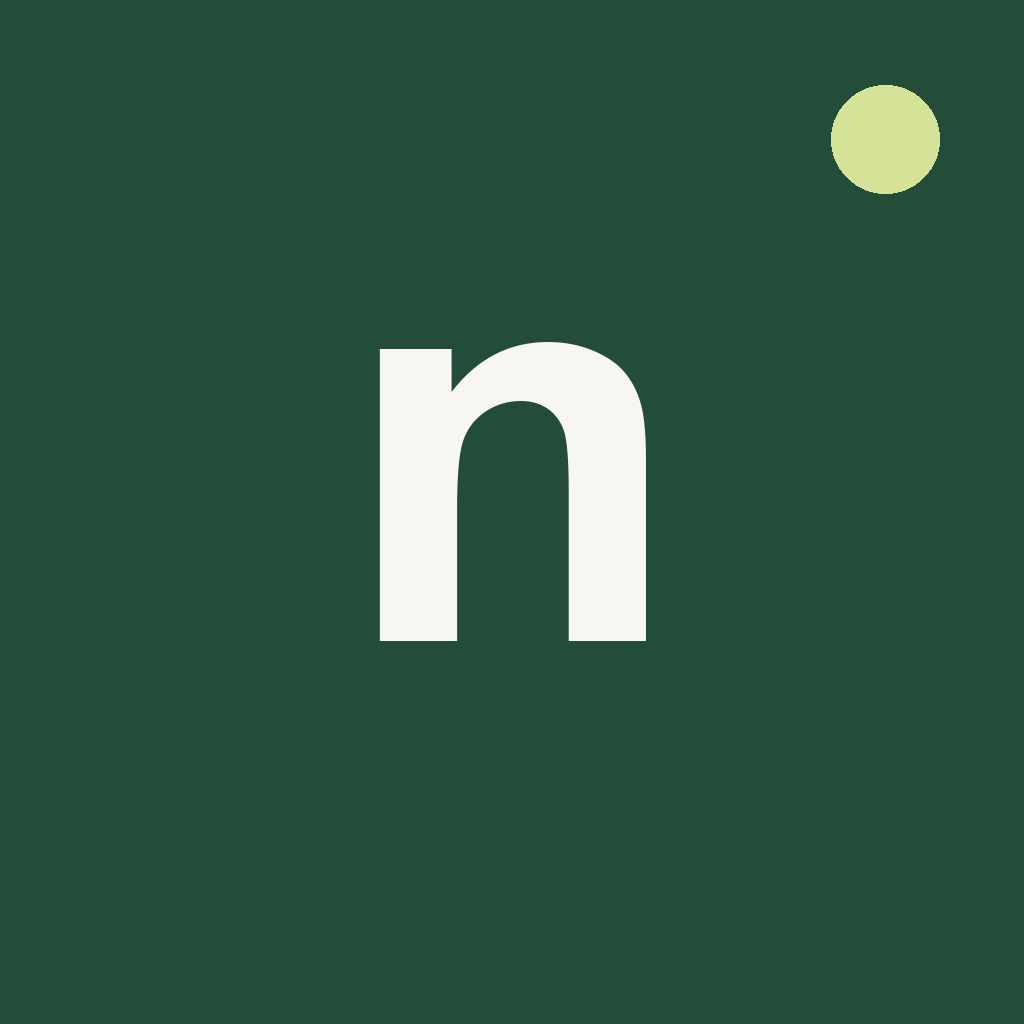
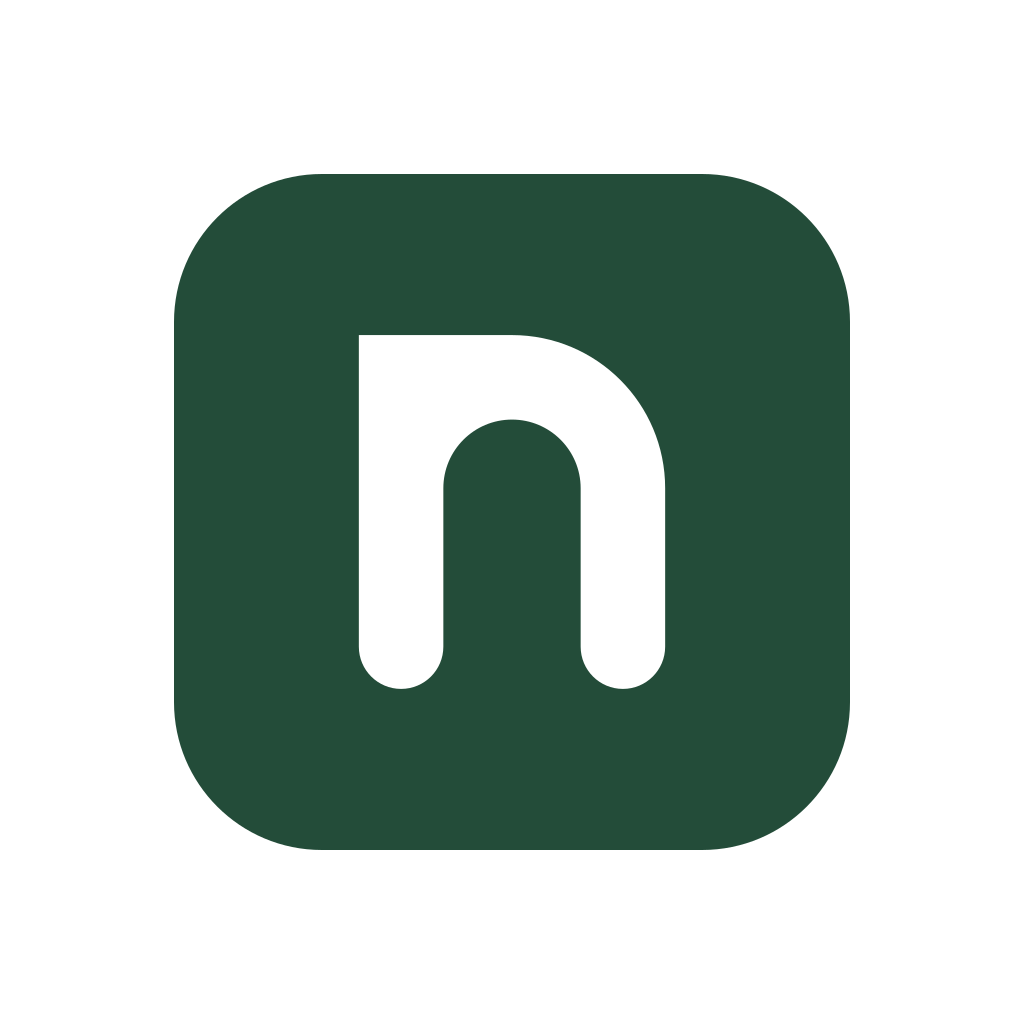
fix(brand): 統一尚未開放登入文案、換定案標誌並還原審查鎖定來源
登入頁去掉「可連線／使用學號連線」等宣稱；圖示與頁首頁尾改用定案方角 n 標誌；還原 merchantMode 審查雜湊來源以通過 Security Gates。

diff --git a/apps/mobile/src/__tests__/GuestLoginScreens.test.tsx b/apps/mobile/src/__tests__/GuestLoginScreens.test.tsx
@@ -460,6 +460,8 @@ test('a release without school SSO keeps public and platform entries, but does n
 test('the guest school-login entry always follows the selected university', () => {
   const view = render(<LoginLandingScreen />);
   expect(view.getByTestId('school-login-start')).toBeTruthy();
+  expect(view.getByText('學校帳號（尚未開放）')).toBeTruthy();
+  expect(view.getByText('學號登入（尚未開放）')).toBeTruthy();
   expect(
     view.getByText(
       '尚未開放學號直接登入；你仍可匯入自己取得的課表、成績與活動，或以 Google 帳號使用平台交流與課班服務。',
@@ -467,6 +469,9 @@ test('the guest school-login entry always follows the selected university', () =
   ).toBeTruthy();
   expect(view.queryByText(/可直接使用 e 校園帳號/)).toBeNull();
   expect(view.queryByText(/提供學號直接連線/)).toBeNull();
+  expect(view.queryByText('可連線')).toBeNull();
+  expect(view.queryByText('使用學號連線')).toBeNull();
+  expect(view.queryByText(/可以連線支援的校務系統/)).toBeNull();
   mockSchool = { id: 'nthu', name: '國立清華大學', shortName: '清大' };
   view.rerender(<LoginLandingScreen />);
   expect(view.queryByTestId('school-login-start')).toBeNull();
@@ -477,6 +482,9 @@ test('the guest school-login entry always follows the selected university', () =
   mockSchool = { id: 'pu', name: '靜宜大學', shortName: '靜宜' };
   view.rerender(<LoginLandingScreen />);
   expect(view.getByTestId('school-login-start')).toBeTruthy();
+  expect(view.queryByText('可連線')).toBeNull();
+  expect(view.queryByText('使用學號連線')).toBeNull();
+  expect(view.queryByText(/提供學號直接連線/)).toBeNull();
 });
 
 test('a direct school login route cannot show Providence credentials while browsing NTHU', () => {

diff --git a/apps/web/src/app/login/page.tsx b/apps/web/src/app/login/page.tsx
@@ -188,7 +188,7 @@ function LoginForm({
       <section className={styles.connectionIntro} aria-label="校務連線方式">
         <div>
           <p className={styles.connectionKicker}>校園資料，一次整理</p>
-          <h2>用熟悉的學校帳號，接上自己的課表</h2>
+          <h2>用匯入與 Google 帳號，整理自己的課表</h2>
           <p>尚未開放學號直接登入。你可以自行匯入課表、成績與活動；需要平台交流或課班服務時，請使用 Google 帳號登入。兩種方法分開顯示，避免把「可瀏覽校園」誤認為「已取得校務權限」。</p>
         </div>
         <div className={styles.connectionFacts}>
@@ -203,7 +203,7 @@ function LoginForm({
               <span className={styles.methodEyebrow}>學校帳號 · 本人授權</span>
               <h2>學校帳號</h2>
             </div>
-            <span className={styles.methodStatus}>{schoolAvailable ? '可連線' : '依校園提供'}</span>
+            <span className={styles.methodStatus}>{schoolAvailable ? '尚未開放' : '依校園提供'}</span>
           </div>
           {(selection?.schools?.length ?? 0) > 0 && (
             <label className={styles.schoolPicker} htmlFor="login-school">
@@ -244,7 +244,7 @@ function LoginForm({
                 </p>
               )}
               <form className={styles.loginForm} onSubmit={login} aria-busy={busy}>
-                <p className={styles.formIntro}>使用學校的既有帳號連線，不需要另外申請 nuni 學號。</p>
+                <p className={styles.formIntro}>學號直接登入尚未開放；開通前請先匯入課表與成績，或以 Google 帳號登入平台服務。</p>
                 <Input
                   id="student-id"
                   name="studentId"

diff --git a/apps/mobile/src/screens/LoginLandingScreen.tsx b/apps/mobile/src/screens/LoginLandingScreen.tsx
@@ -59,13 +59,13 @@ export default function LoginLandingScreen() {
             把自己的校園資料，整理在一起
           </Text>
           <Text style={s.body}>
-            選擇學校後，可以連線支援的校務系統，或直接匯入自己下載的課表、成績與活動資料。校園地圖、公車與公開資訊仍然不必登入。
+            選擇學校後，可自行匯入課表、成績與活動；需要平台交流或課班服務時，請使用 Google 帳號登入。校園地圖、公車與公開資訊仍然不必登入。
           </Text>
         </View>
         <SchoolBrowsingControl />
         <View style={s.schoolPanel}>
           <Text accessibilityRole="header" style={s.title}>
-            {schoolEntry ? '從學校帳號取得資料' : '從學校資料開始'}
+            {schoolEntry ? '學校帳號（尚未開放）' : '從學校資料開始'}
           </Text>
           <Text style={s.body} testID={schoolEntry ? undefined : 'school-login-hint'}>
             {schoolEntry
@@ -79,7 +79,7 @@ export default function LoginLandingScreen() {
               style={({ pressed }) => [s.schoolButton, pressed && s.rowPressed]}
               onPress={() => safeNavigate(navigation, 'SSOLogin')}
             >
-              <Text style={s.schoolButtonText}>使用學號連線</Text>
+              <Text style={s.schoolButtonText}>學號登入（尚未開放）</Text>
             </Pressable>
           ) : null}
           <SchoolPortalImportEntry

diff --git a/apps/web/src/app/login/page.test.tsx b/apps/web/src/app/login/page.test.tsx
@@ -100,6 +100,19 @@ it('states student-id login is not open and never claims direct school-id connec
   expect(screen.getByText('可自行匯入課表、成績與活動')).toBeTruthy();
   expect(container.textContent).not.toContain('提供學號直接連線');
   expect(container.textContent).not.toContain('直接連線：靜宜大學');
+  expect(container.textContent).not.toContain('可連線');
+  expect(container.textContent).not.toContain('使用學號連線');
+});
+it('keeps unavailable school-login wording even when student-id option reports available', () => {
+  state.user = null;
+  state.studentId = true;
+  const { container } = render(<LoginPage />);
+  expect(screen.getAllByText('尚未開放').length).toBeGreaterThan(0);
+  expect(container.textContent).toContain('學號直接登入尚未開放');
+  expect(container.textContent).not.toContain('可連線');
+  expect(container.textContent).not.toContain('使用學號連線');
+  expect(container.textContent).not.toContain('提供學號直接連線');
+  expect(container.textContent).not.toContain('使用學校的既有帳號連線');
 });
 it('keeps a school return destination during an availability failure instead of offering the wrong account', () => {
   state.user = null;

diff --git a/apps/web/src/components/AppHeader.tsx b/apps/web/src/components/AppHeader.tsx
@@ -47,7 +47,8 @@ function Header() {
       <header className={headerStyles.header} data-campus-navigation="true">
         <Link href={href('/')} className={headerStyles.brand} aria-label="nuni">
           <span className={headerStyles.mark} aria-hidden>
-            n
+            {/* eslint-disable-next-line @next/next/no-img-element */}
+            <img src="/icons/mark.svg" alt="" width={28} height={28} />
           </span>
           <span className={headerStyles.wordmark}>nuni</span>
         </Link>
@@ -195,7 +196,8 @@ export function AppHeader() {
         <header className={headerStyles.header} data-campus-navigation="true">
           <Link href="/" className={headerStyles.brand} aria-label="nuni">
             <span className={headerStyles.mark} aria-hidden="true">
-              n
+              {/* eslint-disable-next-line @next/next/no-img-element */}
+              <img src="/icons/mark.svg" alt="" width={28} height={28} />
             </span>
             <span className={headerStyles.wordmark}>nuni</span>
           </Link>

diff --git a/apps/web/src/components/brandIdentity.test.tsx b/apps/web/src/components/brandIdentity.test.tsx
@@ -50,7 +50,15 @@ it('shows nuni brand mark and wordmark in the header without Campus One', () => 
   expect(brand).toBeTruthy();
   expect(brand.textContent).toContain('nuni');
   expect(container.textContent).not.toMatch(/Campus One|CampusOne/);
-  expect(brand.querySelector('[aria-hidden]')?.textContent?.trim()).toBe('n');
+  const mark = brand.querySelector('img');
+  expect(mark?.getAttribute('src')).toBe('/icons/mark.svg');
+});
+
+it('shows nuni mark and wordmark in the site footer', () => {
+  const { container } = render(<SiteFooter />);
+  expect(screen.getByText('nuni')).toBeTruthy();
+  expect(container.querySelector('img')?.getAttribute('src')).toBe('/icons/mark.svg');
+  expect(container.textContent).not.toMatch(/Agent/);
 });
 
 it('publishes nuni in web app manifest name fields', () => {

diff --git a/packages/shared/src/merchantMode.ts b/packages/shared/src/merchantMode.ts
@@ -8,7 +8,7 @@ export const MENU_STALE_TEXT = '菜單可能過期，價格以店家頁面為準
 export const SHOWCASE_ORDER_BUTTON_TEXT = '到店家網站訂餐';
 export const SHOWCASE_EXTERNAL_ORDER_HINT = '這間店要到店家自己的頁面訂餐。';
 export const SHOWCASE_ORDER_CAPTION =
-  '會開啟店家自己的網站，訂單和付款由店家處理，nuni 查不到這筆訂單';
+  '會開啟店家自己的網站，訂單和付款由店家處理，Campus One 查不到這筆訂單';
 export const SHOWCASE_LEAVE_NOTICE = SHOWCASE_ORDER_CAPTION;
 export const NATIVE_ORDERING_CLOSED_TEXT = '這間店目前不能在 App 點餐';
 export const MENU_STALE_AFTER_HOURS = 24;

diff --git a/backend/functions/merchantMode.test.js b/backend/functions/merchantMode.test.js
@@ -105,7 +105,7 @@ test('native_order stays closed when the global switch is off and is not rewritt
 test('showcase stores use outbound-order copy and stay info-only without an https URL', () => {
   expect(SHOWCASE_ORDER_BUTTON_TEXT).toBe('到店家網站訂餐');
   expect(SHOWCASE_ORDER_CAPTION).toBe(
-    '會開啟店家自己的網站，訂單和付款由店家處理，nuni 查不到這筆訂單',
+    '會開啟店家自己的網站，訂單和付款由店家處理，Campus One 查不到這筆訂單',
   );
   expect(SHOWCASE_ORDER_BUTTON_TEXT).not.toMatch(/點餐|下單/);
   expect(

diff --git a/backend/functions/lib/merchantMode.js b/backend/functions/lib/merchantMode.js
@@ -8,7 +8,7 @@ const EXTERNAL_ORDER_HONEST_TEXT =
 const MENU_STALE_TEXT = '菜單可能過期，價格以店家頁面為準。';
 const SHOWCASE_ORDER_BUTTON_TEXT = '到店家網站訂餐';
 const SHOWCASE_ORDER_CAPTION =
-  '會開啟店家自己的網站，訂單和付款由店家處理，nuni 查不到這筆訂單';
+  '會開啟店家自己的網站，訂單和付款由店家處理，Campus One 查不到這筆訂單';
 const SHOWCASE_LEAVE_NOTICE = SHOWCASE_ORDER_CAPTION;
 const NATIVE_ORDERING_CLOSED_TEXT = '這間店目前不能在 App 點餐';
 const MENU_STALE_AFTER_HOURS = 24;

diff --git a/apps/web/src/components/AppHeader.module.css b/apps/web/src/components/AppHeader.module.css
@@ -38,16 +38,17 @@
   align-items: center;
   justify-content: center;
   flex-shrink: 0;
-  width: 35px;
-  height: 38px;
-  border: 1px solid color-mix(in srgb, var(--brand) 85%, var(--text));
-  border-radius: 10px 10px 10px 3px;
-  background: var(--brand);
-  color: var(--on-brand);
-  font-size: 23px;
-  font-weight: 600;
-  line-height: 1;
-  letter-spacing: -0.5px;
+  width: 28px;
+  height: 28px;
+  overflow: hidden;
+  border-radius: 6px;
+  line-height: 0;
+}
+
+.mark img {
+  display: block;
+  width: 28px;
+  height: 28px;
 }
 
 .nav {

diff --git a/apps/web/src/components/SiteFooter.tsx b/apps/web/src/components/SiteFooter.tsx
@@ -4,7 +4,11 @@ import styles from '@/app/home.module.css';
 export function SiteFooter() {
   return (
     <footer className={styles.footer}>
-      <span>nuni</span>
+      <span className={styles.footerBrand}>
+        {/* eslint-disable-next-line @next/next/no-img-element */}
+        <img src="/icons/mark.svg" alt="" width={20} height={20} />
+        nuni
+      </span>
       <nav aria-label="網站資訊">
         <Link href="/terms">服務條款</Link>
         <Link href="/privacy">隱私政策</Link>

diff --git a/apps/web/src/features/admin/AdminHeader.tsx b/apps/web/src/features/admin/AdminHeader.tsx
@@ -24,7 +24,8 @@ export function AdminHeader() {
     <header className={styles.adminHeader}>
       <Link className={styles.adminBrand} href="/" aria-label="nuni 首頁">
         <span className={styles.brandMark} aria-hidden="true">
-          n
+          {/* eslint-disable-next-line @next/next/no-img-element */}
+          <img src="/icons/mark.svg" alt="" width={28} height={28} />
         </span>
         <span>nuni</span>
         <span className={styles.headerContext}>平台管理</span>
